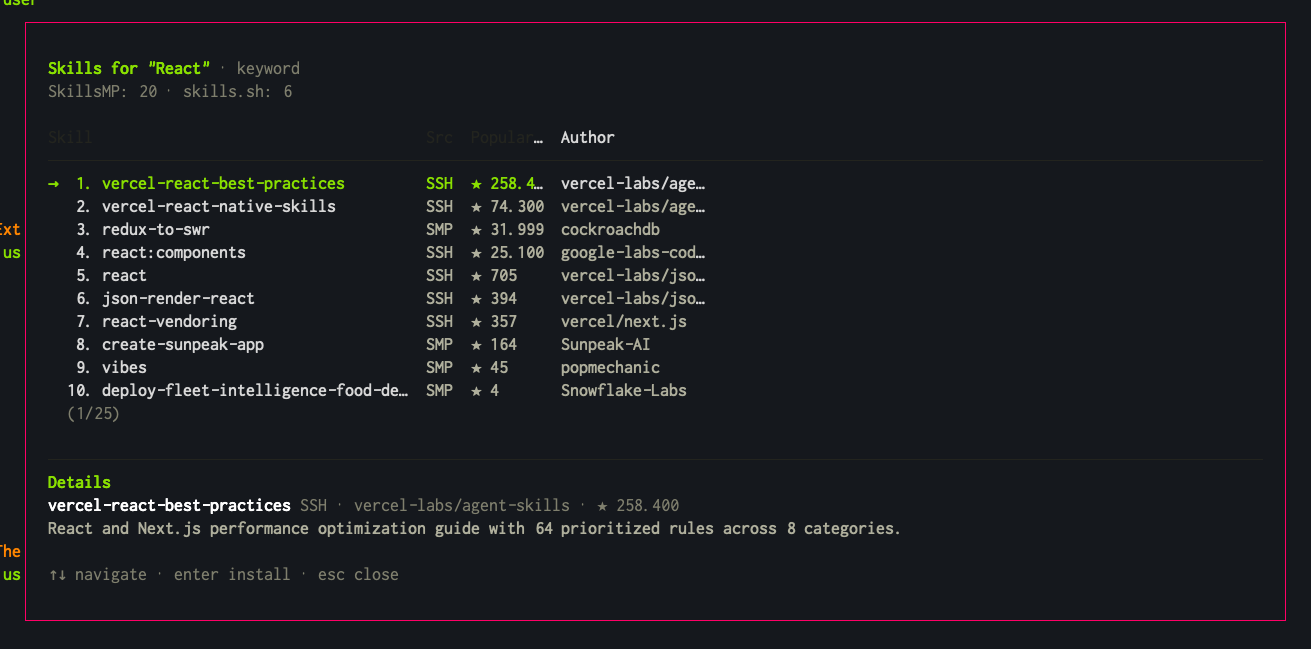
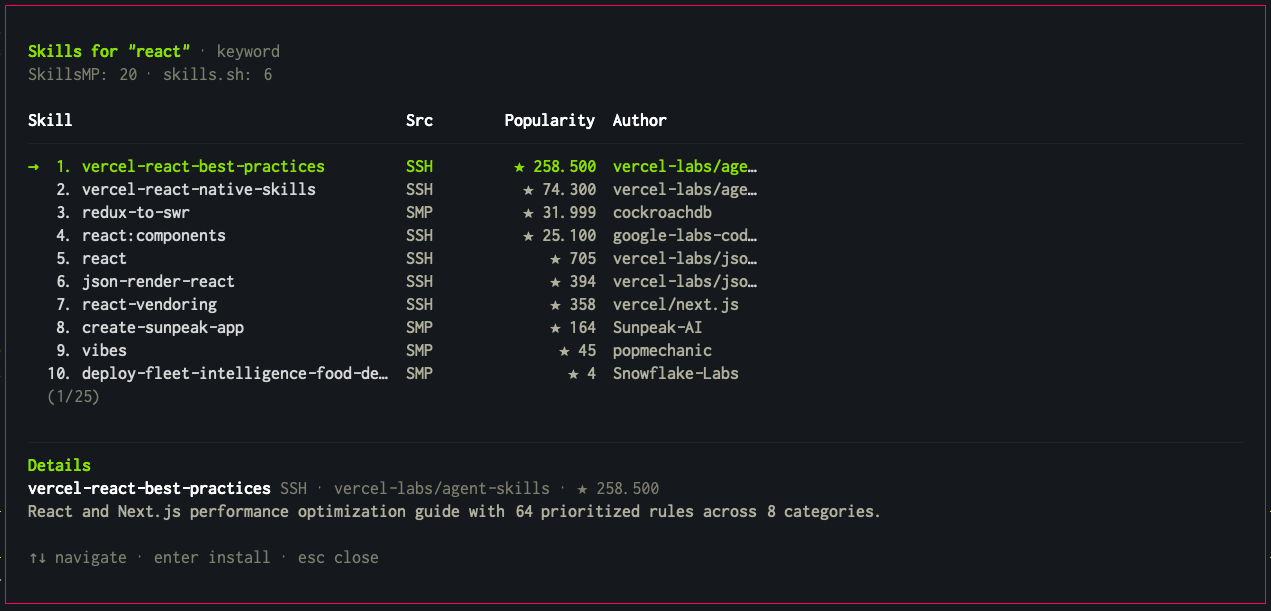
Improve skills UI table readability

diff --git a/ui.ts b/ui.ts
@@ -136,10 +136,14 @@ function makeSingleCellRow(text: string, width: number, color: (text: string) =>
   return `│ ${color(padPlain(text, width))} │`;
 }
 
+function styleHeaderText(text: string, theme: Theme): string {
+  return theme.fg("text", theme.bold(text));
+}
+
 function buildListDescription(skill: Skill): string {
   return [
     padPlain(getProviderBadge(skill.provider), 3),
-    padPlain(formatStars(skill.stars), 8),
+    padPlain(formatStars(skill.stars), 16, "right"),
     truncatePlain(skill.author, 16),
   ].join("  ");
 }
@@ -157,7 +161,7 @@ export function renderSkillsTable(skills: Skill[], theme: Theme, expanded: boole
     3,
     Math.min(26, Math.max(18, ...rows.map((skill) => visibleWidth(normalizeInline(skill.name))))),
     3,
-    12,
+    24,
     Math.min(16, Math.max(10, ...rows.map((skill) => visibleWidth(normalizeInline(skill.author))))),
   ];
 
@@ -169,14 +173,15 @@ export function renderSkillsTable(skills: Skill[], theme: Theme, expanded: boole
 
   lines.push(top);
   lines.push(
-    theme.bold(
+    styleHeaderText(
       makePlainRow([
         padPlain("#", widths[0], "right"),
         padPlain("Skill", widths[1]),
         padPlain("Src", widths[2]),
-        padPlain("Popularity", widths[3]),
+        padPlain("Popularity", widths[3], "right"),
         padPlain("Author", widths[4]),
       ]),
+      theme,
     ),
   );
   lines.push(mid);
@@ -186,7 +191,7 @@ export function renderSkillsTable(skills: Skill[], theme: Theme, expanded: boole
       padPlain(String(index + 1), widths[0], "right"),
       padPlain(skill.name, widths[1]),
       padPlain(getProviderBadge(skill.provider), widths[2]),
-      padPlain(formatStars(skill.stars), widths[3]),
+      padPlain(formatStars(skill.stars), widths[3], "right"),
       padPlain(skill.author, widths[4]),
     ];
 
@@ -277,10 +282,10 @@ export async function showInteractiveSkillPicker(
         const legendLeft = padPlain("Skill", primaryColumnWidth);
         const legendRight = [
           padPlain("Src", 3),
-          padPlain("Popularity", 8),
+          padPlain("Popularity", 16, "right"),
           padPlain("Author", 16),
         ].join("  ");
-        legendText.setText(theme.fg("borderMuted", `${legendLeft}  ${legendRight}`));
+        legendText.setText(styleHeaderText(`${legendLeft}  ${legendRight}`, theme));
 
         detailTitleText.setText(
           theme.fg("accent", theme.bold("Details")),
